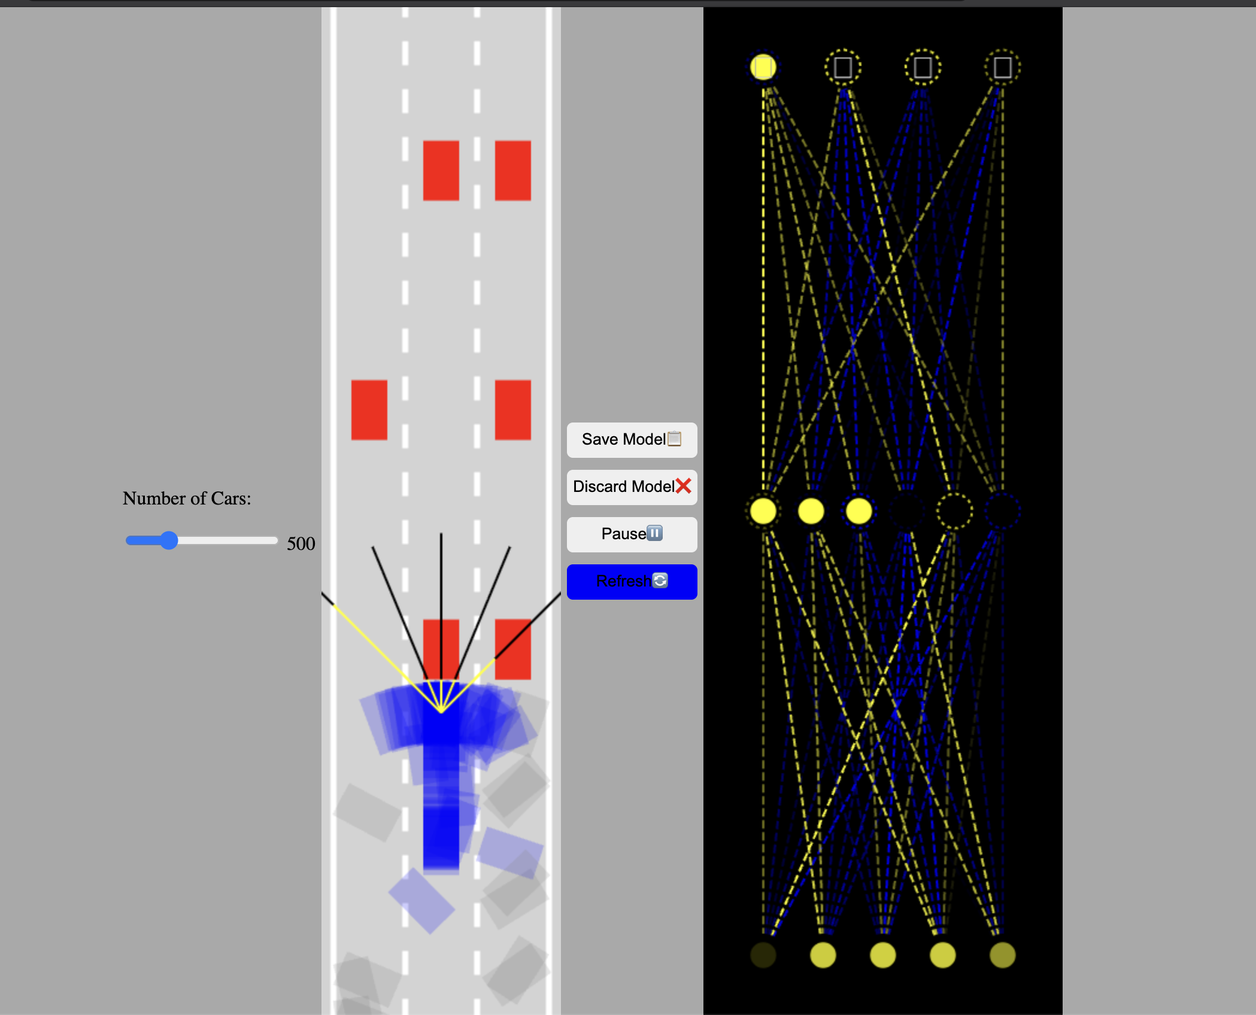
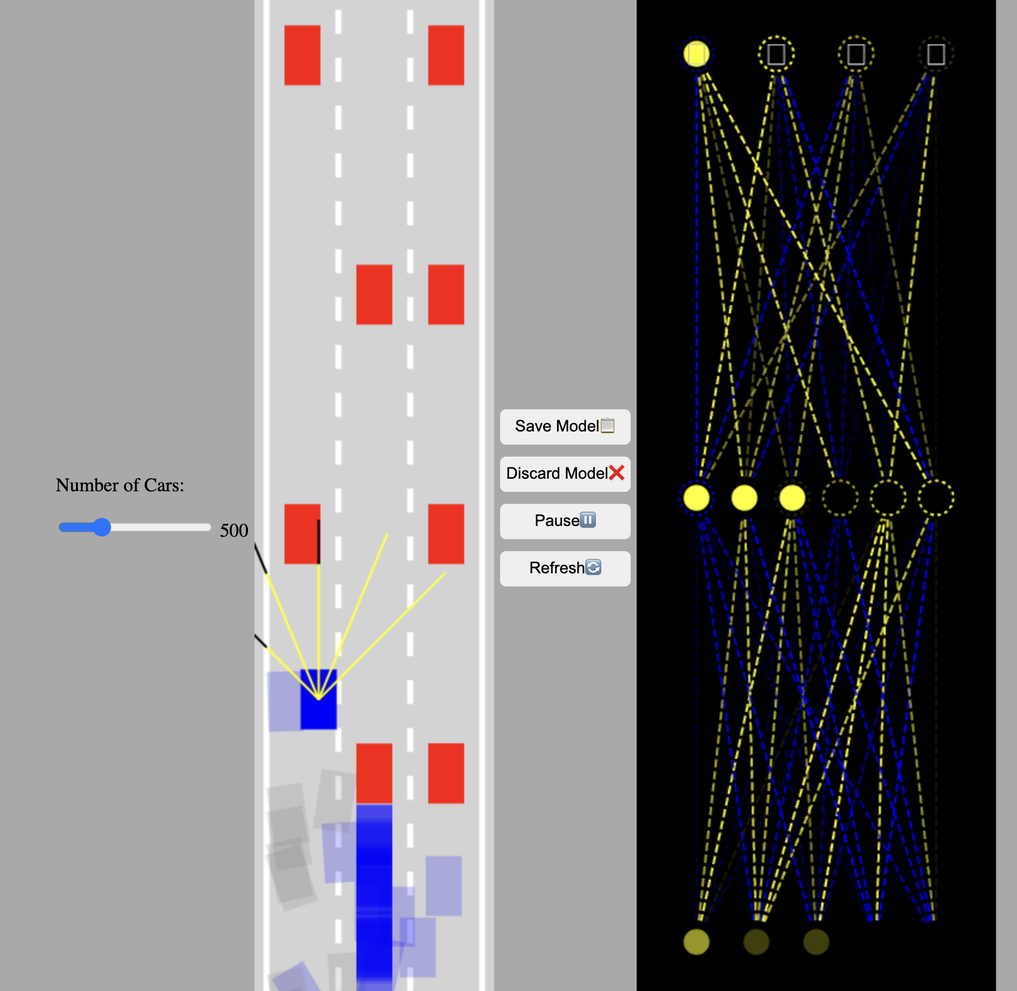
Show compact project rows with detail popups

diff --git a/index.html b/index.html
@@ -1,41 +1,28 @@
 <!doctype html>
-<html lang="en"><head><meta charset="utf-8"><meta name="viewport" content="width=device-width, initial-scale=1"><meta name="description" content="Rajveer Bedi — AI engineering, research, and work experience."><meta name="format-detection" content="telephone=no"><meta name="theme-color" content="#f6f5f1"><title>Rajveer Bedi — Selected work</title><link rel="icon" type="image/png" sizes="64x64" href="assets/favicon.png?v=1"><link rel="stylesheet" href="styles.css?v=15"></head>
+<html lang="en"><head><meta charset="utf-8"><meta name="viewport" content="width=device-width, initial-scale=1"><meta name="description" content="Rajveer Bedi — AI engineering, research, and work experience."><meta name="format-detection" content="telephone=no"><meta name="theme-color" content="#f6f5f1"><title>Rajveer Bedi — Selected work</title><link rel="icon" type="image/png" sizes="64x64" href="assets/favicon.png?v=1"><link rel="stylesheet" href="styles.css?v=16"></head>
 <body><header><button class="utility" id="theme">[ Dark mode ]</button><span class="header-role">AI Engineer</span><span class="location">New Jersey, USA</span></header>
 <main><section class="intro"><div class="introduction"><p>AI engineer and student based in New Jersey.<br>Currently building voice agents at Atherton Health.</p><h1>RAJVEER BEDI</h1></div></section>
 <div class="section-cap mono"><span>Selected work</span><a href="#experiences">Experiences <svg class="arrow-icon" width="1em" height="1em" viewBox="0 0 16 16" fill="none" stroke="currentColor" stroke-width="1.35" stroke-linecap="round" stroke-linejoin="round" aria-hidden="true" focusable="false"><path d="M8 2v12m-5-5 5 5 5-5"/></svg></a></div>
 <figure class="painting reveal"><img src="abstract-painting.png" width="2172" height="724" alt="Abstract painting with charcoal, slate-blue, and umber brushstrokes on ivory linen."></figure>
-<section class="projects" id="projects" aria-labelledby="projects-title" aria-roledescription="carousel">
-  <div class="section-cap projects-heading">
-    <h2 id="projects-title">Projects</h2>
-    <div class="project-controls" hidden>
-      <button type="button" data-project-step="-1" aria-label="Previous project"><svg class="arrow-icon" width="16" height="16" viewBox="0 0 16 16" fill="none" stroke="currentColor" stroke-width="1.35" aria-hidden="true"><path d="M14 8H2m5-5L2 8l5 5"/></svg></button>
-      <span class="project-count" aria-live="polite" aria-atomic="true">01 / 02</span>
-      <button type="button" data-project-step="1" aria-label="Next project"><svg class="arrow-icon" width="16" height="16" viewBox="0 0 16 16" fill="none" stroke="currentColor" stroke-width="1.35" aria-hidden="true"><path d="M2 8h12M9 3l5 5-5 5"/></svg></button>
-    </div>
-  </div>
-  <article class="project-slide" aria-labelledby="driving-title">
-    <figure class="project-image driving-preview"><img src="assets/project-driving.png" alt="Simulated cars navigating traffic alongside a live neural network visualization" loading="lazy" decoding="async"></figure>
-    <div class="project-copy">
-      <p class="mono project-type">01 / JavaScript simulation</p>
-      <h3 id="driving-title">Self-Driving Car Simulation</h3>
+<section class="projects experiences" id="projects" aria-labelledby="projects-title">
+<div class="section-cap"><h2 id="projects-title">Projects</h2><span class="experience-hint">Click to explore</span></div>
+<button class="experience reveal" data-modal="project-driving" aria-haspopup="dialog"><span class="experience-name">Self-Driving Car Simulation</span><span class="experience-role">JavaScript simulation</span><span class="experience-summary">Neural networks learn to navigate simulated traffic.</span><span class="arrow" aria-hidden="true"><svg class="arrow-icon" width="1em" height="1em" viewBox="0 0 16 16" fill="none" stroke="currentColor" stroke-width="1.35" stroke-linecap="round" stroke-linejoin="round" aria-hidden="true" focusable="false"><path d="M3 13 13 3M5 3h8v8"/></svg></span></button>
+<template id="project-driving"><div class="project-detail">
+      <h2 id="dialog-title">Self-Driving Car Simulation</h2>
       <p>A browser simulation built with vanilla JavaScript and Canvas. Ray sensors detect traffic and road boundaries, and a feed-forward neural network turns those readings into driving controls.</p>
       <p>Adjust the number of cars, watch the lead car’s network in real time, and save its model in the browser. The next run tests mutated copies of that model against traffic.</p>
       <div class="project-links"><a href="https://self-driving-car-blond.vercel.app/" target="_blank" rel="noopener noreferrer">Live demo <svg class="arrow-icon" width="1em" height="1em" viewBox="0 0 16 16" fill="none" stroke="currentColor" stroke-width="1.35" stroke-linecap="round" stroke-linejoin="round" aria-hidden="true"><path d="M3 13 13 3M5 3h8v8"/></svg></a><a href="https://github.com/realRSB/self-driving-car" target="_blank" rel="noopener noreferrer">GitHub <svg class="arrow-icon" width="1em" height="1em" viewBox="0 0 16 16" fill="none" stroke="currentColor" stroke-width="1.35" stroke-linecap="round" stroke-linejoin="round" aria-hidden="true"><path d="M3 13 13 3M5 3h8v8"/></svg></a></div>
-    </div>
-  </article>
-  <article class="project-slide" aria-labelledby="docshield-title">
-    <figure class="project-image docshield-preview"><img src="assets/project-docshield.png" alt="DocShield dashboard with a file upload area and searchable document library" loading="lazy" decoding="async"></figure>
-    <div class="project-copy">
-      <p class="mono project-type">02 / NJx hackathon project</p>
-      <h3 id="docshield-title">DocShield</h3>
+    <figure class="project-image driving-preview"><img src="assets/project-driving.png" alt="Simulated cars navigating traffic alongside a live neural network visualization" loading="lazy" decoding="async"></figure></div></template>
+<button class="experience reveal" data-modal="project-docshield" aria-haspopup="dialog"><span class="experience-name">DocShield</span><span class="experience-role">NJx hackathon</span><span class="experience-summary">Sign, share, and verify documents.</span><span class="arrow" aria-hidden="true"><svg class="arrow-icon" width="1em" height="1em" viewBox="0 0 16 16" fill="none" stroke="currentColor" stroke-width="1.35" stroke-linecap="round" stroke-linejoin="round" aria-hidden="true" focusable="false"><path d="M3 13 13 3M5 3h8v8"/></svg></span></button>
+<template id="project-docshield"><div class="project-detail">
+      <h2 id="dialog-title">DocShield</h2>
       <p>A React and FastAPI prototype for signing, sharing, and verifying PDFs and Word documents. It uses SHA-256 fingerprints and Ed25519 signatures to check file integrity and verify the signed record.</p>
       <p>Teams can manage registered files in a searchable library, set access controls, and review access events flagged as unusual.</p>
       <div class="project-links"><a href="https://www.youtube.com/watch?v=KmubuSgZ5t0" target="_blank" rel="noopener noreferrer">Watch demo <svg class="arrow-icon" width="1em" height="1em" viewBox="0 0 16 16" fill="none" stroke="currentColor" stroke-width="1.35" stroke-linecap="round" stroke-linejoin="round" aria-hidden="true"><path d="M3 13 13 3M5 3h8v8"/></svg></a><a href="https://github.com/nirvaankohli/njx" target="_blank" rel="noopener noreferrer">GitHub <svg class="arrow-icon" width="1em" height="1em" viewBox="0 0 16 16" fill="none" stroke="currentColor" stroke-width="1.35" stroke-linecap="round" stroke-linejoin="round" aria-hidden="true"><path d="M3 13 13 3M5 3h8v8"/></svg></a></div>
-    </div>
-  </article>
+    <figure class="project-image docshield-preview"><img src="assets/project-docshield.png" alt="DocShield dashboard with a file upload area and searchable document library" loading="lazy" decoding="async"></figure></div></template>
 </section>
 <section class="experiences" id="experiences"><div class="section-cap"><h2>Experiences</h2><span class="experience-hint">Click to explore</span></div><button class="experience reveal" data-modal="atherton"><span class="experience-name">Atherton Health<span class="experience-date">2024–present</span></span><span class="experience-role">Founding AI Engineer</span><span class="experience-summary">Built voice agents for specialty-pharmacy insurance calls.</span><span class="arrow" aria-hidden="true"><svg class="arrow-icon" width="1em" height="1em" viewBox="0 0 16 16" fill="none" stroke="currentColor" stroke-width="1.35" stroke-linecap="round" stroke-linejoin="round" aria-hidden="true" focusable="false"><path d="M3 13 13 3M5 3h8v8"/></svg></span></button><button class="experience reveal" data-modal="tks"><span class="experience-name">The Knowledge Society<span class="experience-date">2024–2025</span></span><span class="experience-role">Emerging Technology Fellow</span><span class="experience-summary">Developed smart glasses to detect cataract markers.</span><span class="arrow" aria-hidden="true"><svg class="arrow-icon" width="1em" height="1em" viewBox="0 0 16 16" fill="none" stroke="currentColor" stroke-width="1.35" stroke-linecap="round" stroke-linejoin="round" aria-hidden="true" focusable="false"><path d="M3 13 13 3M5 3h8v8"/></svg></span></button><button class="experience reveal" data-modal="deep"><span class="experience-name">Deep24<span class="experience-date">2026</span></span><span class="experience-role">Forward-Deployed Engineer</span><span class="experience-summary">Built processing queues that turn podcasts into social clips.</span><span class="arrow" aria-hidden="true"><svg class="arrow-icon" width="1em" height="1em" viewBox="0 0 16 16" fill="none" stroke="currentColor" stroke-width="1.35" stroke-linecap="round" stroke-linejoin="round" aria-hidden="true" focusable="false"><path d="M3 13 13 3M5 3h8v8"/></svg></span></button><button class="experience reveal" data-modal="liva"><span class="experience-name">Liva AI<span class="experience-date">2026</span></span><span class="experience-role">AI Engineer</span><span class="experience-summary">Evaluated multilingual voice AI for accuracy and emotion.</span><span class="arrow" aria-hidden="true"><svg class="arrow-icon" width="1em" height="1em" viewBox="0 0 16 16" fill="none" stroke="currentColor" stroke-width="1.35" stroke-linecap="round" stroke-linejoin="round" aria-hidden="true" focusable="false"><path d="M3 13 13 3M5 3h8v8"/></svg></span></button><button class="experience reveal" data-modal="hp"><span class="experience-name">HP Tech Ventures<span class="experience-date">2023</span></span><span class="experience-role">Deal Sourcing & Startup Analyst</span><span class="experience-summary">Screened AI medtech startups and developed investment theses.</span><span class="arrow" aria-hidden="true"><svg class="arrow-icon" width="1em" height="1em" viewBox="0 0 16 16" fill="none" stroke="currentColor" stroke-width="1.35" stroke-linecap="round" stroke-linejoin="round" aria-hidden="true" focusable="false"><path d="M3 13 13 3M5 3h8v8"/></svg></span></button><button class="experience reveal" data-modal="senate"><span class="experience-name">Office of Senator John F. McKeon<span class="experience-date">2025</span></span><span class="experience-role">Legislative Affairs Intern</span><span class="experience-summary">Researched insurance protections and automated constituent responses.</span><span class="arrow" aria-hidden="true"><svg class="arrow-icon" width="1em" height="1em" viewBox="0 0 16 16" fill="none" stroke="currentColor" stroke-width="1.35" stroke-linecap="round" stroke-linejoin="round" aria-hidden="true" focusable="false"><path d="M3 13 13 3M5 3h8v8"/></svg></span></button><button class="experience reveal" data-modal="research"><span class="experience-name">New York Academy of Sciences<span class="experience-date">2023–present</span></span><span class="experience-role">Project Leader · Junior Academy</span><span class="experience-summary">Led research on predicting copper recovery from e-waste.</span><span class="arrow" aria-hidden="true"><svg class="arrow-icon" width="1em" height="1em" viewBox="0 0 16 16" fill="none" stroke="currentColor" stroke-width="1.35" stroke-linecap="round" stroke-linejoin="round" aria-hidden="true" focusable="false"><path d="M3 13 13 3M5 3h8v8"/></svg></span></button><button class="experience reveal" data-modal="temple"><span class="experience-name">Local Gurudwara<span class="experience-date">2024–present</span></span><span class="experience-role">EdTech Founder & Youth Coding Teacher</span><span class="experience-summary">Built student scheduling software and taught free AI and CS classes.</span><span class="arrow" aria-hidden="true"><svg class="arrow-icon" width="1em" height="1em" viewBox="0 0 16 16" fill="none" stroke="currentColor" stroke-width="1.35" stroke-linecap="round" stroke-linejoin="round" aria-hidden="true" focusable="false"><path d="M3 13 13 3M5 3h8v8"/></svg></span></button></section><section class="recognition reveal" aria-label="Awards"><button data-modal="awards" class="award-link"><span class="award-category mono">Awards</span><span class="award-title">Competitions & recognition</span><span class="award-sub mono">View awards <span aria-hidden="true"><svg class="arrow-icon" width="1em" height="1em" viewBox="0 0 16 16" fill="none" stroke="currentColor" stroke-width="1.35" stroke-linecap="round" stroke-linejoin="round" aria-hidden="true" focusable="false"><path d="M3 13 13 3M5 3h8v8"/></svg></span></span></button></section>
 <section class="education-section reveal" id="education" aria-labelledby="education-heading"><h2 class="section-label" id="education-heading">Education</h2><div class="education-list"><article class="education-entry"><div><h3>Livingston High School</h3><p>Livingston, New Jersey</p><button data-modal="about" class="text-link">Coursework & details <svg class="arrow-icon" width="1em" height="1em" viewBox="0 0 16 16" fill="none" stroke="currentColor" stroke-width="1.35" stroke-linecap="round" stroke-linejoin="round" aria-hidden="true" focusable="false"><path d="M3 13 13 3M5 3h8v8"/></svg></button></div><span class="education-date">September 2024–present</span></article><article class="education-entry"><div><h3>Algebra II Honors</h3><p>Johns Hopkins University</p></div><span class="education-date">Dual enrollment</span></article><article class="education-entry"><div><h3>Unified Calculus 1</h3><p>Union County College (UCNJ)</p></div><span class="education-date">Dual enrollment</span></article></div></section>
 <section class="contact-section reveal" id="contact" aria-labelledby="contact-heading"><h2 class="section-label" id="contact-heading">Contact</h2><div class="contact-links"><a href="mailto:bedi.rajveer09@gmail.com">bedi.rajveer09@gmail.com</a><a href="https://github.com/realRSB" target="_blank" rel="noopener noreferrer">GitHub <span aria-hidden="true"><svg class="arrow-icon" width="1em" height="1em" viewBox="0 0 16 16" fill="none" stroke="currentColor" stroke-width="1.35" stroke-linecap="round" stroke-linejoin="round" aria-hidden="true" focusable="false"><path d="M3 13 13 3M5 3h8v8"/></svg></span></a><a href="https://linkedin.com/in/rajveerbedi" target="_blank" rel="noopener noreferrer">LinkedIn <span aria-hidden="true"><svg class="arrow-icon" width="1em" height="1em" viewBox="0 0 16 16" fill="none" stroke="currentColor" stroke-width="1.35" stroke-linecap="round" stroke-linejoin="round" aria-hidden="true" focusable="false"><path d="M3 13 13 3M5 3h8v8"/></svg></span></a><span class="contact-phone">+1 (973) 787-6510</span></div><div class="contact-location"><p>New Jersey, USA</p><span class="local-time" id="time"></span></div></section></main>
 <footer class="mono"><span>© <span id="copyright">2026</span> Rajveer Bedi</span><a href="#top" id="top">Back to top <svg class="arrow-icon" width="1em" height="1em" viewBox="0 0 16 16" fill="none" stroke="currentColor" stroke-width="1.35" stroke-linecap="round" stroke-linejoin="round" aria-hidden="true" focusable="false"><path d="M8 14V2m-5 5 5-5 5 5"/></svg></a><span>New Jersey, USA</span></footer>
-<dialog aria-labelledby="dialog-title" id="detail"><div class="dialog-top mono"><span id="dialog-label"></span><button class="utility" id="close">[ Close × ]</button></div><div class="dialog-body" id="dialog-content"></div><div class="dialog-bottom"><span class="mono">Rajveer Bedi / Selected work</span><button class="utility" id="next">Next experience <svg class="arrow-icon" width="1em" height="1em" viewBox="0 0 16 16" fill="none" stroke="currentColor" stroke-width="1.35" stroke-linecap="round" stroke-linejoin="round" aria-hidden="true" focusable="false"><path d="M2 8h12M9 3l5 5-5 5"/></svg></button></div></dialog><div class="cursor-ring" aria-hidden="true"></div><script src="app.js?v=15"></script></body></html>
+<dialog aria-labelledby="dialog-title" id="detail"><div class="dialog-top mono"><span id="dialog-label"></span><button class="utility" id="close">[ Close × ]</button></div><div class="dialog-body" id="dialog-content"></div><div class="dialog-bottom"><span class="mono">Rajveer Bedi / Selected work</span><button class="utility" id="next">Next experience <svg class="arrow-icon" width="1em" height="1em" viewBox="0 0 16 16" fill="none" stroke="currentColor" stroke-width="1.35" stroke-linecap="round" stroke-linejoin="round" aria-hidden="true" focusable="false"><path d="M2 8h12M9 3l5 5-5 5"/></svg></button></div></dialog><div class="cursor-ring" aria-hidden="true"></div><script src="app.js?v=16"></script></body></html>

diff --git a/app.js b/app.js
@@ -89,27 +89,10 @@ function projectMedia(id){
  return '';
 }
 const dialog=document.querySelector('#detail'),content=document.querySelector('#dialog-content'),label=document.querySelector('#dialog-label'),next=document.querySelector('#next');let current,opener;
-function show(id){current=id;const data=projects[id];if(data){label.textContent='Experience / '+String(order.indexOf(id)+1).padStart(2,'0');content.innerHTML=`<h2 id="dialog-title">${data[1]}</h2><p class="lede">${data[0]}</p><article class="entry"><span class="mono">${periods[id]}</span>${data[3].map(paragraph=>`<p>${paragraph}</p>`).join('')}</article>${projectMedia(id)}`;next.hidden=false}else if(id==='awards'){label.textContent='Awards';next.hidden=true;content.innerHTML='<h2 id="dialog-title">Competitions & recognition</h2>'+[['1st place','New Jersey DECA','Travel and Tourism Team Decision Making'],['1st place','IKEA × TKS','Innovation Hackathon'],['1st place','Project Millionaire Canada','Hackathon'],['1st place','XPRIZE × TKS','Quantum Computing Hackathon'],['Top 3','New York Academy of Sciences','Innovation Challenge: Minerals of Technology']].map(a=>`<article class="entry"><span class="mono">${a[0]}</span><h3>${a[1]}</h3><p>${a[2]}</p>${a[1]==='New Jersey DECA'?'<figure class="award-photo"><img src="assets/deca-award.jpg" width="873" height="900" alt="Rajveer Bedi with fellow DECA competitors holding trophies at the awards ceremony"><figcaption>1st place · New Jersey DECA<br>Travel and Tourism Team Decision Making</figcaption></figure>':''}</article>`).join('')}else{label.textContent='General info';next.hidden=true;content.innerHTML=`<h2 id="dialog-title">Rajveer Bedi</h2><p class="lede">AI engineer and student in Livingston, New Jersey.</p><article class="entry"><span class="mono">September 2024–present</span><h3>Livingston High School</h3><p>AP coursework: Calculus BC, Language, Macroeconomics, Microeconomics, Computer Science A, Computer Science Principles, and Business.</p></article>`}if(!dialog.open)dialog.showModal();dialog.scrollTop=0;document.querySelector('#close').focus({preventScroll:true})}
+function show(id){current=id;const data=projects[id];const project=id.startsWith('project-')?document.getElementById(id):null;if(project){label.textContent='Project';next.hidden=true;content.replaceChildren(project.content.cloneNode(true))}else if(data){label.textContent='Experience / '+String(order.indexOf(id)+1).padStart(2,'0');content.innerHTML=`<h2 id="dialog-title">${data[1]}</h2><p class="lede">${data[0]}</p><article class="entry"><span class="mono">${periods[id]}</span>${data[3].map(paragraph=>`<p>${paragraph}</p>`).join('')}</article>${projectMedia(id)}`;next.hidden=false}else if(id==='awards'){label.textContent='Awards';next.hidden=true;content.innerHTML='<h2 id="dialog-title">Competitions & recognition</h2>'+[['1st place','New Jersey DECA','Travel and Tourism Team Decision Making'],['1st place','IKEA × TKS','Innovation Hackathon'],['1st place','Project Millionaire Canada','Hackathon'],['1st place','XPRIZE × TKS','Quantum Computing Hackathon'],['Top 3','New York Academy of Sciences','Innovation Challenge: Minerals of Technology']].map(a=>`<article class="entry"><span class="mono">${a[0]}</span><h3>${a[1]}</h3><p>${a[2]}</p>${a[1]==='New Jersey DECA'?'<figure class="award-photo"><img src="assets/deca-award.jpg" width="873" height="900" alt="Rajveer Bedi with fellow DECA competitors holding trophies at the awards ceremony"><figcaption>1st place · New Jersey DECA<br>Travel and Tourism Team Decision Making</figcaption></figure>':''}</article>`).join('')}else{label.textContent='General info';next.hidden=true;content.innerHTML=`<h2 id="dialog-title">Rajveer Bedi</h2><p class="lede">AI engineer and student in Livingston, New Jersey.</p><article class="entry"><span class="mono">September 2024–present</span><h3>Livingston High School</h3><p>AP coursework: Calculus BC, Language, Macroeconomics, Microeconomics, Computer Science A, Computer Science Principles, and Business.</p></article>`}if(!dialog.open)dialog.showModal();dialog.scrollTop=0;document.querySelector('#close').focus({preventScroll:true})}
 document.querySelectorAll('[data-modal]').forEach(el=>el.addEventListener('click',()=>{opener=el;show(el.dataset.modal)}));document.querySelector('#close').onclick=()=>dialog.close();dialog.addEventListener('click',e=>{if(e.target===dialog){const r=dialog.getBoundingClientRect();if(e.clientX<r.left||e.clientX>r.right||e.clientY<r.top||e.clientY>r.bottom)dialog.close()}});dialog.addEventListener('close',()=>opener?.focus({preventScroll:true}));next.onclick=()=>show(order[(order.indexOf(current)+1)%order.length]);
 const theme=document.querySelector('#theme');document.body.classList.remove('dark');function themeLabel(){theme.textContent=document.body.classList.contains('dark')?'[ Light mode ]':'[ Dark mode ]'}themeLabel();theme.onclick=()=>{document.body.classList.toggle('dark');themeLabel()};
 document.querySelector('#top').onclick=e=>{e.preventDefault();window.scrollTo({top:0,behavior:matchMedia('(prefers-reduced-motion: reduce)').matches?'instant':'smooth'})};function clock(){document.querySelector('#time').textContent=new Intl.DateTimeFormat('en-US',{timeZone:'America/New_York',hour:'numeric',minute:'2-digit'}).format(new Date())+' / New Jersey'}clock();setInterval(clock,60000);
 const reduced=matchMedia('(prefers-reduced-motion: reduce)');
 if(!reduced.matches && 'IntersectionObserver' in window){const observer=new IntersectionObserver(entries=>entries.forEach(entry=>{if(entry.isIntersecting){entry.target.classList.add('visible');observer.unobserve(entry.target)}}),{threshold:.08});document.querySelectorAll('.reveal').forEach(el=>{el.classList.add('reveal-ready');observer.observe(el)})}
 const cursor=document.querySelector('.cursor-ring');if(matchMedia('(hover:hover) and (pointer:fine)').matches&&!reduced.matches){document.addEventListener('pointermove',e=>{cursor.style.transform=`translate3d(${e.clientX}px,${e.clientY}px,0)`;cursor.classList.add('active');cursor.classList.toggle('over-link',Boolean(e.target.closest('button,a')))});document.documentElement.addEventListener('pointerleave',()=>cursor.classList.remove('active'));document.addEventListener('pointerdown',()=>cursor.classList.add('pressed'));document.addEventListener('pointerup',()=>cursor.classList.remove('pressed'))}
-
-const projectSlides=[...document.querySelectorAll('.project-slide')];
-const projectControls=document.querySelector('.project-controls');
-if(projectSlides.length>1 && projectControls){
-  let selectedProject=0;
-  const count=projectControls.querySelector('.project-count');
-  const showProject=(index)=>{
-    selectedProject=(index+projectSlides.length)%projectSlides.length;
-    projectSlides.forEach((slide,i)=>{slide.hidden=i!==selectedProject});
-    count.textContent=[selectedProject+1,projectSlides.length].map(n=>String(n).padStart(2,'0')).join(' / ');
-  };
-  projectControls.querySelectorAll('[data-project-step]').forEach(button=>{
-    button.addEventListener('click',()=>showProject(selectedProject+Number(button.dataset.projectStep)));
-  });
-  showProject(0);
-  projectControls.hidden=false;
-}

diff --git a/styles.css b/styles.css
@@ -73,22 +73,11 @@ footer{padding-top:24px;padding-bottom:24px}
 
 .arrow-icon{display:inline-block;vertical-align:-.12em;flex:none}
 
-/* Selected projects */
-.projects{padding:72px 0 0}
-.projects-heading{padding:0 0 18px;align-items:center;border-bottom:1px solid var(--line)}
-.projects-heading h2{font-size:11px;letter-spacing:2px;color:var(--muted)}
-.project-controls{display:flex;align-items:center;gap:10px}
-.project-controls[hidden],.project-slide[hidden]{display:none}
-.project-controls button{display:grid;place-items:center;width:44px;height:44px;border:1px solid var(--line);transition:background-color .2s}
-.project-count{font:12px/1.5 'Courier New',monospace;min-width:4.5em;text-align:center}
-.project-slide{display:grid;grid-template-columns:minmax(0,1.35fr) minmax(0,1fr);gap:clamp(26px,5vw,72px);align-items:center;padding-top:24px}
-.project-image{margin:0;aspect-ratio:4/3;display:grid;place-items:center;overflow:hidden;border:1px solid var(--line)}
-.driving-preview{background:#a8a8a8}.docshield-preview{background:#0d0d0f}
-.project-image img{display:block;width:100%;height:100%;min-height:0;object-fit:contain}
-.project-copy h3{font-size:clamp(24px,3vw,40px);font-weight:400;line-height:1.08;margin:12px 0 18px}
-.project-copy p{font-size:17px;line-height:1.5;margin:0 0 12px;color:var(--muted)}
-.project-copy .project-type{font-size:11px;letter-spacing:1.4px}
-.project-links{display:flex;flex-wrap:wrap;gap:8px 22px;margin-top:18px}
+/* Compact project rows use the same layout as experiences. */
+.projects.experiences{padding-bottom:0}
+.projects > .section-cap{padding-bottom:18px}
+.project-detail > p{color:var(--muted);line-height:1.55}
+.project-image{margin:24px 0 0}
+.project-image img{display:block;max-width:100%;max-height:460px;width:auto;height:auto;margin-inline:auto;border:1px solid var(--line)}
+.project-links{display:flex;flex-wrap:wrap;gap:8px 22px;margin-top:16px}
 .project-links a{display:inline-flex;align-items:center;gap:6px;min-height:44px;border-bottom:1px solid var(--line)}
-@media(hover:hover){.project-controls button:hover{background:var(--surface)}}
-@media(max-width:680px){.projects{padding-top:48px}.project-slide{grid-template-columns:minmax(0,1fr);gap:22px;padding-top:18px}.project-copy h3{margin-bottom:12px}.project-links{margin-top:10px}}
